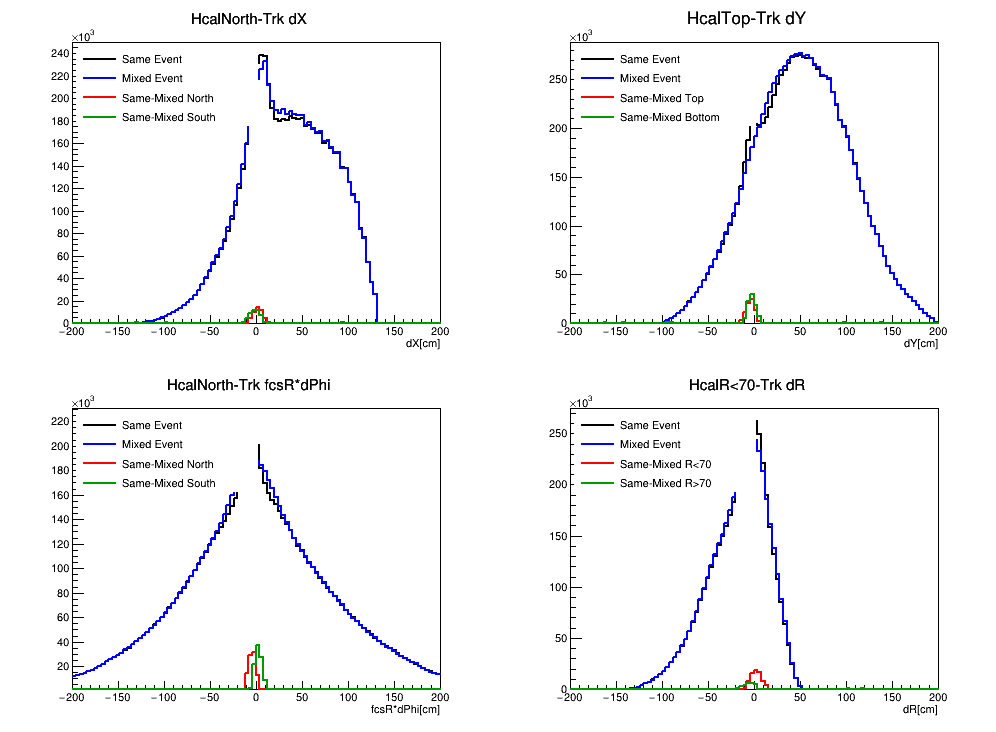
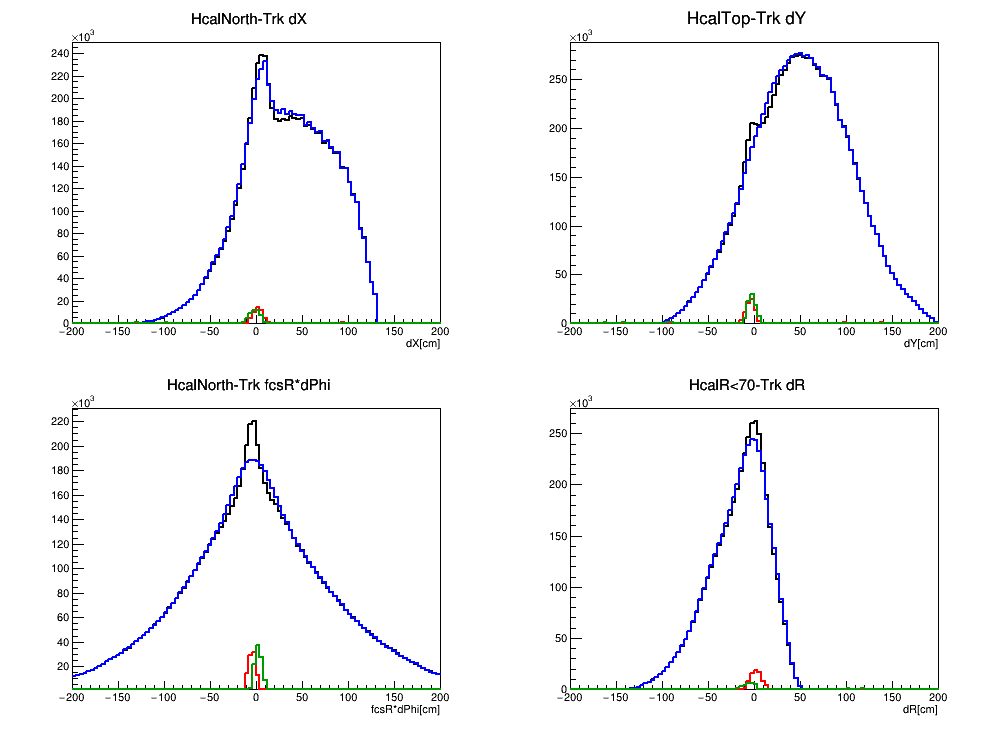
trackmatch: July row, r*dPhi north/south overlay, and the dR explanation
- July added as a third row of the 1D match table, regenerated from the
  2026-07-06 file with the same macro and binning so it is like for like.
- Legend removed from the match plots: it covered the peaks. The colour
  key is in the page text instead.
- New r*dPhi overlay, ECAL only, subtracted only, north and south panels,
  three datasets. North and south are displaced in OPPOSITE directions by
  2-3 cm in all three, antisymmetric part -1.78 (ZF22), -2.87 (July),
  -2.85 (Oct). That is a relative y offset between FCS clusters and track
  projections, not a rotation: north sits near phi=0 where the azimuthal
  direction is +y and south near phi=pi where it is -y. Present in July as
  well as October, so it is standing, not introduced by recent work.
- dR reworded per akio: the width is expected, since FST strips run along
  R and only the TPC vertex constrains z well, and the centre is at zero.
  Not a shower-max depth error.

diff --git a/FstFttFlipTest/trackmatch.html b/FstFttFlipTest/trackmatch.html
@@ -35,15 +35,51 @@ step reconciliation against 2026-07-06 is in
 
 <H2>Matching: Same, Mixed and Same&minus;Mixed</H2>
 
+<p>In every panel: <b>black</b> = same event, <b>blue</b> = mixed event,
+<b><font color="red">red</font></b> and <b><font color="green">green</font></b> =
+same&minus;mixed for the two halves. No legend is drawn on the plots because it covered
+the peaks.</p>
+
 <table border="1" cellpadding="4">
 <tr bgcolor="#ccccee"><td>dataset</td><td>Ecal</td><td>Hcal</td></tr>
 <tr><td>ZF 22, Primary</td>
   <td><a href="trackmatch_zf22/fcsTrkMatchEcal.png"><img src="trackmatch_zf22/fcsTrkMatchEcal.png" height="200"></a></td>
   <td><a href="trackmatch_zf22/fcsTrkMatchHcal.png"><img src="trackmatch_zf22/fcsTrkMatchHcal.png" height="200"></a></td></tr>
-<tr><td>Forward stream, BLCVtx</td>
+<tr><td>Forward stream, BLCVtx<br>Oct, with all fixes</td>
   <td><a href="trackmatch_fwdstream/fcsTrkMatchEcal.png"><img src="trackmatch_fwdstream/fcsTrkMatchEcal.png" height="200"></a></td>
   <td><a href="trackmatch_fwdstream/fcsTrkMatchHcal.png"><img src="trackmatch_fwdstream/fcsTrkMatchHcal.png" height="200"></a></td></tr>
+<tr><td>Forward stream, BLCVtx<br>from July</td>
+  <td><a href="trackmatch_fwdjuly/fcsTrkMatchEcal.png"><img src="trackmatch_fwdjuly/fcsTrkMatchEcal.png" height="200"></a></td>
+  <td><a href="trackmatch_fwdjuly/fcsTrkMatchHcal.png"><img src="trackmatch_fwdjuly/fcsTrkMatchHcal.png" height="200"></a></td></tr>
 </table>
+
+<H2>r*dPhi, the north/south shift</H2>
+
+<p>ECAL only, mixed-event subtracted, area normalised on a common 4&nbsp;cm axis, north in
+the left panel and south in the right.</p>
+
+<table border="0" cellpadding="6"><tr><td align="center">
+<a href="plots/rdphi_overlay.png"><img src="plots/rdphi_overlay.png" height="260"></a>
+</td></tr></table>
+
+<table border="1" cellpadding="4" cellspacing="0">
+<tr bgcolor="#ccccee"><th>half</th><th>ZF 22, Primary</th><th>fwd stream July</th><th>fwd stream Oct</th></tr>
+<tr><td>North mean</td><td align="right">&minus;2.31</td><td align="right">&minus;3.08</td><td align="right">&minus;3.25</td></tr>
+<tr><td>South mean</td><td align="right">+1.25</td><td align="right">+2.66</td><td align="right">+2.44</td></tr>
+<tr><td><b>antisymmetric part</b></td><td align="right"><b>&minus;1.78</b></td><td align="right"><b>&minus;2.87</b></td><td align="right"><b>&minus;2.85</b></td></tr>
+</table>
+
+<p>cm, over |d|&lt;30&nbsp;cm. <b>North and south are displaced in opposite directions in
+all three datasets</b>, by about 2&ndash;3&nbsp;cm. That antisymmetry is the signature of a
+<b>relative y offset</b> between the FCS clusters and the track projections, not of a
+rotation: north sits near &phi;=0 where the azimuthal direction is +y, south near
+&phi;=&pi; where it is &minus;y, so a common y shift appears with opposite sign in the two
+halves. A rotation about z would shift both the same way.</p>
+
+<p>It is present in July as well as October and in zero field as well as the forward
+stream, so it is a standing offset rather than anything introduced by the recent code
+work &mdash; and it is the same size in both forward-stream passes. Worth fixing: it is a
+single number.</p>
 
 <H2>Width and signal-to-background, ECAL</H2>
 
@@ -68,11 +104,15 @@ the two halves (North/South, Top/Bottom, R&lt;70/R&gt;70).</p>
 <H3>What the numbers say</H3>
 
 <ul>
-  <li><b>The mismatch is radial, not azimuthal.</b> fcsR*dPhi is 7&ndash;7.7&nbsp;cm while
-      dR is 10.5&ndash;14.4, a factor up to two. dX and dY are mixtures of the two, so the
-      radial term is what inflates them. A radial displacement is what a wrong
-      <i>z</i> produces, since tracks come from near the origin &mdash; the assumed
-      shower-max depth (710.16&nbsp;+&nbsp;15&nbsp;cm) is the first thing to test.</li>
+  <li><b>The dR width is expected, and its centre is fine.</b> fcsR*dPhi is
+      7&ndash;7.7&nbsp;cm while dR is 10.5&ndash;14.4. FST strips run along R, so R is the
+      poorly constrained coordinate; the TPC vertex fixes z to about a cm and helps ZF 22,
+      BLC does not constrain z at all and BLCVtx only loosely, which is why dR is widest
+      there. FTT would help with its x and y, but at the present efficiency only
+      1&ndash;2 FTT hits land on a track. After subtraction dR is centred near zero, so
+      this is understood rather than a defect. It is not a shower-max depth error: that
+      would make dR strictly proportional to r and identical in both datasets, and the
+      measured r dependence is neither.</li>
   <li><b>Zero field matches five times more cleanly.</b> S/B is 0.39&ndash;0.51 for ZF 22
       against 0.078&ndash;0.095 for the forward stream. In the forward stream roughly 90%
       of the raw histogram is combinatorial, so any number taken from it without

diff --git a/script/plotRdPhiOverlay.C b/script/plotRdPhiOverlay.C
@@ -1,0 +1,67 @@
+// plotRdPhiOverlay.C -- r*dPhi only, ECAL only, mixed-event subtracted only.
+// North in the left panel, South in the right, three datasets overlaid, so the
+// north/south shift can be read directly.
+// Everything is put on the July file's 4 cm axis and area normalised, since the three
+// datasets differ in statistics by orders of magnitude.
+// CINT: unique loop names, fixed arrays (see CLAUDE.md).
+
+TH1D* roSub(const char* file, const char* type, const char* half, int rebin, const char* tag) {
+    TFile* f = TFile::Open(file);
+    if (!f || f->IsZombie()) return 0;
+    TH1* hs = (TH1*)f->Get(Form("Ecal%sdpSame Event_%s", half, type));
+    TH1* hm = (TH1*)f->Get(Form("Ecal%sdpMixed Event_%s", half, type));
+    if (!hs || !hm) { printf("  missing Ecal%sdp_%s\n", half, type); return 0; }
+    TH1D* d = (TH1D*)hs->Clone(Form("ro_%s_%s", half, tag)); d->SetDirectory(0);
+    TH1D* m = (TH1D*)hm->Clone(Form("rom_%s_%s", half, tag)); m->SetDirectory(0);
+    if (rebin > 1) { d->Rebin(rebin); m->Rebin(rebin); }
+    double aS = 0, aM = 0;
+    for (int ib = 1; ib <= d->GetNbinsX(); ib++) {
+        double x = fabs(d->GetXaxis()->GetBinCenter(ib));
+        if (x < 80 || x > 160) continue;
+        aS += d->GetBinContent(ib); aM += m->GetBinContent(ib);
+    }
+    m->Scale(aM > 0 ? aS / aM : 1.0);
+    d->Add(m, -1.0);
+    double it = d->Integral();
+    if (it > 0) d->Scale(1.0 / it);
+    return d;
+}
+
+void plotRdPhiOverlay(const char* fZf, const char* fJul, const char* fOct, const char* out) {
+    const char* half[2] = {"North", "South"};
+    gStyle->SetOptStat(0);
+    TCanvas* c = new TCanvas("rodp", "rodp", 1000, 440);
+    c->Divide(2, 1);
+    printf("\n  ECAL r*dPhi, mixed-subtracted, area normalised\n");
+    printf("  %-8s %22s %22s %22s\n", "half", "ZF22 Primary", "fwd July BLCVtx", "fwd Oct BLCVtx");
+    printf("  %-8s %10s %11s %10s %11s %10s %11s\n", "", "peak", "mean", "peak", "mean", "peak", "mean");
+    for (int ih = 0; ih < 2; ih++) {
+        c->cd(ih + 1); gPad->SetGridx(); gPad->SetGridy(); gPad->SetLeftMargin(0.13);
+        TH1D* a = roSub(fZf,  "Primary", half[ih], 8, "zf");
+        TH1D* b = roSub(fJul, "BLCVtx",  half[ih], 1, "jul");
+        TH1D* d = roSub(fOct, "BLCVtx",  half[ih], 8, "oct");
+        if (!a || !b || !d) continue;
+        a->SetTitle(Form("ECAL %s, r*dPhi;fcsR*dPhi [cm];area normalised", half[ih]));
+        a->GetXaxis()->SetRangeUser(-60, 60);
+        double mx = TMath::Max(a->GetMaximum(), TMath::Max(b->GetMaximum(), d->GetMaximum()));
+        a->SetMaximum(mx * 1.3); a->SetMinimum(0);
+        a->SetLineColor(kBlack);   a->SetLineWidth(2);
+        b->SetLineColor(kAzure+2); b->SetLineWidth(2);
+        d->SetLineColor(kRed+1);   d->SetLineWidth(2);
+        a->Draw("hist"); b->Draw("hist same"); d->Draw("hist same");
+        TLegend* lg = new TLegend(0.58, 0.70, 0.99, 0.90);
+        lg->SetFillColor(0); lg->SetBorderSize(0); lg->SetTextSize(0.042);
+        lg->AddEntry(a, "ZF22, Primary", "l");
+        lg->AddEntry(b, "fwd stream July", "l");
+        lg->AddEntry(d, "fwd stream Oct", "l");
+        lg->Draw();
+        TH1D* qa=(TH1D*)a->Clone("qa"); qa->SetDirectory(0); qa->GetXaxis()->SetRangeUser(-30,30);
+        TH1D* qb=(TH1D*)b->Clone("qb"); qb->SetDirectory(0); qb->GetXaxis()->SetRangeUser(-30,30);
+        TH1D* qd=(TH1D*)d->Clone("qd"); qd->SetDirectory(0); qd->GetXaxis()->SetRangeUser(-30,30);
+        printf("  %-8s %10.2f %11.3f %10.2f %11.3f %10.2f %11.3f\n", half[ih],
+               a->GetXaxis()->GetBinCenter(a->GetMaximumBin()), qa->GetMean(),
+               b->GetXaxis()->GetBinCenter(b->GetMaximumBin()), qb->GetMean(),
+               d->GetXaxis()->GetBinCenter(d->GetMaximumBin()), qd->GetMean());
+    }
+    c->SaveAs(out);
+}

diff --git a/script/plotTrackMatch.C b/script/plotTrackMatch.C
@@ -89,13 +89,8 @@ void plotTrackMatch(const char* file, const char* type, const char* det,
         same->Draw("hist"); mix->Draw("hist same");
         if (d1) { d1->SetLineColor(kRed);   d1->SetLineWidth(2); d1->Draw("hist same"); }
         if (d2) { d2->SetLineColor(kGreen+2); d2->SetLineWidth(2); d2->Draw("hist same"); }
-        TLegend* lg = new TLegend(0.14, 0.66, 0.52, 0.88);
-        lg->SetFillColor(0); lg->SetBorderSize(0); lg->SetTextSize(0.035);
-        lg->AddEntry(same, "Same Event", "l");
-        lg->AddEntry(mix,  "Mixed Event", "l");
-        if (d1) lg->AddEntry(d1, Form("Same-Mixed %s", n1[iv]), "l");
-        if (d2) lg->AddEntry(d2, Form("Same-Mixed %s", n2[iv]), "l");
-        lg->Draw();
+        // no legend: it covered the peaks. black=Same, blue=Mixed,
+        // red/green=Same-Mixed for the two halves; stated in the page text.
     }
     c->SaveAs(Form("%s/fcsTrkMatch%s.png", outdir, det));
 
